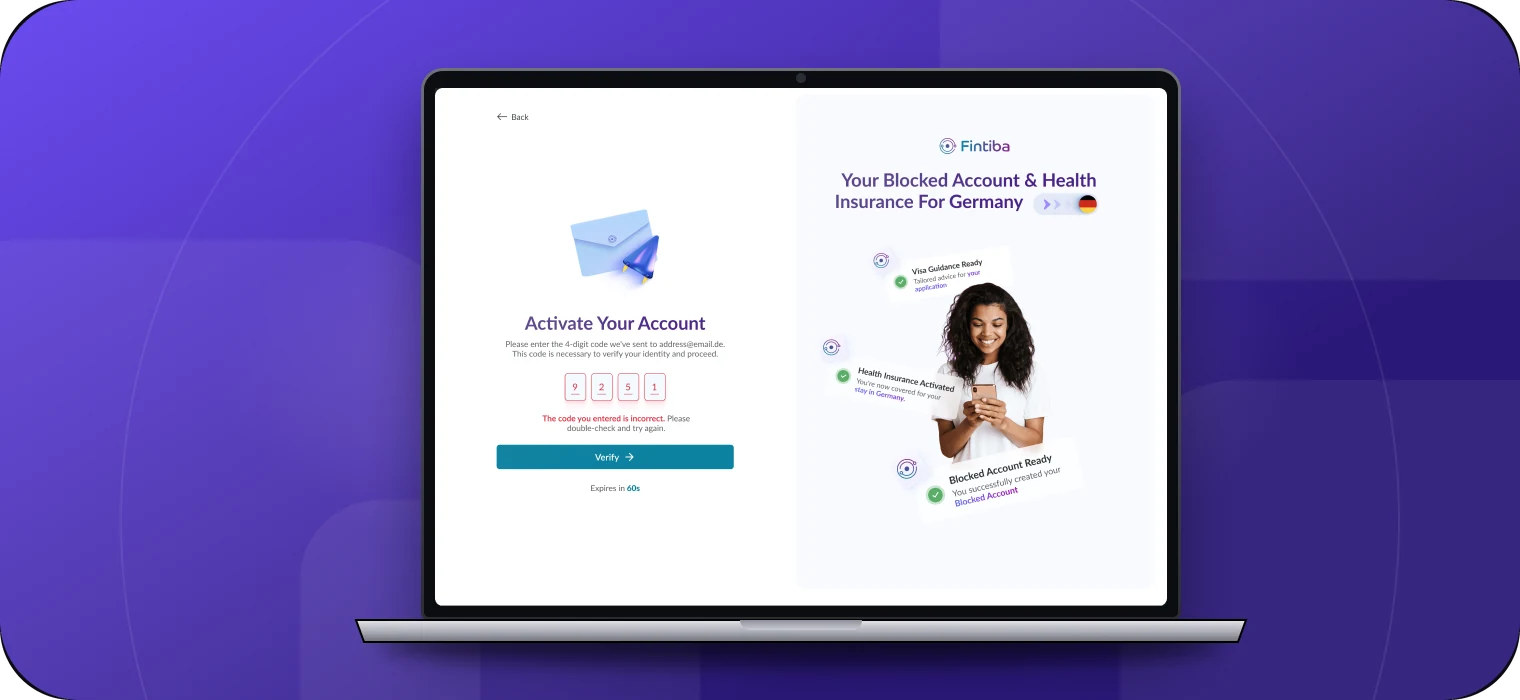
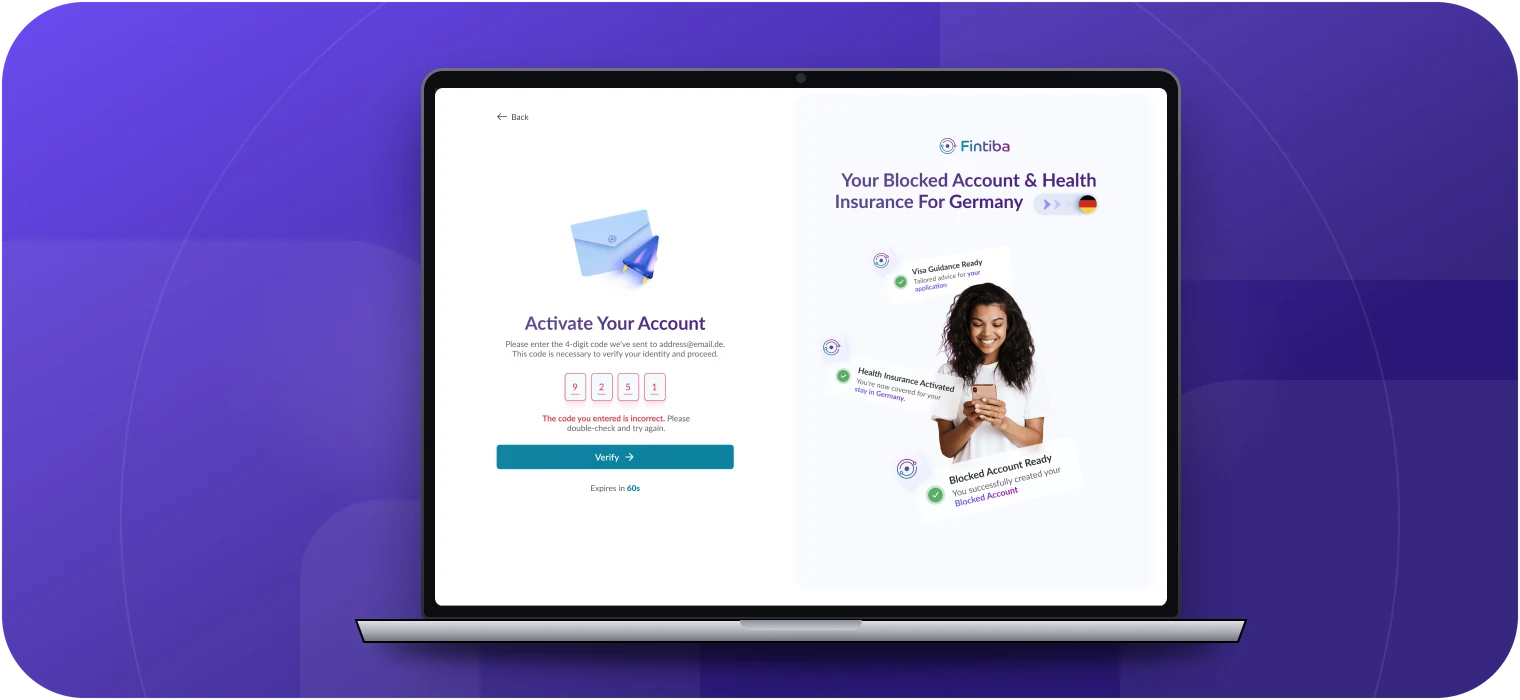
Login case: clean cover card corners (no dark edge)
Claude-Session: https://claude.ai/code/session_011pq2ADq6rPTZrVGSK3qx6v

diff --git a/cases/login.html b/cases/login.html
@@ -49,7 +49,7 @@
             <p class="lg-hero__lead"><em>Без тупиков</em> для каждого статуса аккаунта</p>
           </div>
           <div class="lg-hero__visual">
-            <img src="../assets/img/login/hero.webp" width="1520" height="700" alt="Ноутбук с экраном подтверждения аккаунта: ввод кода из письма и сообщение об ошибке" fetchpriority="high">
+            <img src="../assets/img/login/hero.webp?v=2" width="1520" height="700" alt="Ноутбук с экраном подтверждения аккаунта: ввод кода из письма и сообщение об ошибке" fetchpriority="high">
           </div>
         </div>
       </div>
